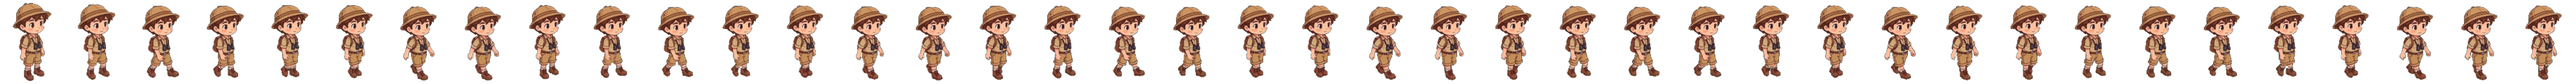
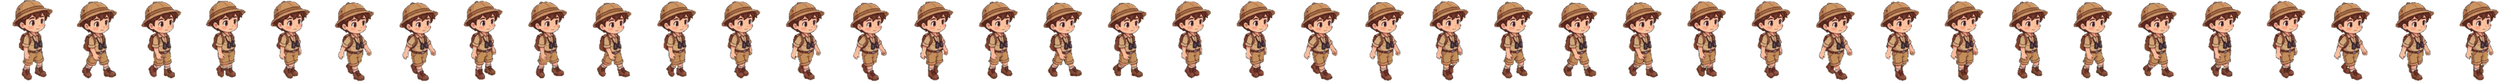
Savanne läuft flüssig, Flamingo-Aufgabe früher, Überraschungs-Flamingos, neue Welten-Bilder
- Savanne: Kamera rundet nicht mehr auf ganze Pixel (kein Stottern beim Seitwärtslaufen, wie in der Eiswelt);
  Lauf-Animation ohne das größere erste Bild und so groß wie im Stehen
- Starter-Aufgaben: Event mit neuen Tieren gleich nach dem Kescher, die Karte zeigt die fehlenden Herzen
- Überraschung: nach einer Minute in Wiese, Wald oder Savanne einmal gratis ein Flamingo-Flug (höchstens alle
  30 Minuten, erst nach dem Tutorial); die Statistik zählt mit
- Welten-Tafel: neue Screenshots von Savanne, Bambuswald und Dschungel mit Tieren

diff --git a/src/scenes/GardenScene.js b/src/scenes/GardenScene.js
@@ -421,6 +421,10 @@ const TUT_SHEEP = 2; // im Mini-Tutorial grasen auf der Wiese immer so viele Sch
 const TUT_SHEEP_R = 360; // ... so nah am Auto ...
 const TUT_SHEEP_CHECK = 2; // ... nachgeschaut wird alle paar Sekunden
 const PROMO_DELAY = 1200; // so lange nach der Ankunft im Tierpark, bis eine Tafel aufgeht (maybeShowPromo)
+// Überraschung (maybeSurprise): so lange nach der Ankunft in Wiese, Wald oder Savanne fliegen gratis Flamingos ein,
+// höchstens so oft
+const SURPRISE_DELAY = 60 * 1000;
+const SURPRISE_EVERY = 30 * 60 * 1000;
 // Tafel "andere Welten" (maybeShowPromo): Bild unter public/assets, Überschrift, Text
 const WORLD_PAGES = [
   ['promo/world_savanna', tr('Savanne', 'Savanna'), tr(
@@ -1093,6 +1097,7 @@ export default class GardenScene extends Phaser.Scene {
     hideLoading(); // fertig aufgebaut (siehe showLoading beim Starten, Gebietswechsel und Ausbau)
     sessionLoaded(); // für die Statistik: Ladezeit (nur beim ersten Gebiet der Runde)
     if (data.intro) this.time.delayedCall(400, () => this.showIntro()); // neues Spiel: Willkommens-Tafel
+    if (FLAMINGO_WORLDS.includes(LEVEL_ID)) this.time.delayedCall(SURPRISE_DELAY, () => this.maybeSurprise());
     if (data.fromWorld) {
       game.parkReturns++;
       this.time.delayedCall(PROMO_DELAY, () => this.maybeShowPromo());
@@ -1187,10 +1192,10 @@ export default class GardenScene extends Phaser.Scene {
       (MAP_W + MAP_H) * (TILE_H / 2) + TILE_H * 4,
     );
     cam.startFollow(this.player.sprite, true, 0.12, 0.12);
-    // Unterwasserwelt und Eiswelt: nicht auf ganze Pixel runden. Schwimmend ist Henrik langsamer (unter 1 Pixel pro Bild
-    // je Achse); Figur und Kamera rasten sonst zu verschiedenen Zeiten auf den nächsten Pixel ein, das sieht wie Stottern
-    // aus (in der Eiswelt vor dem gleichmäßigen Schnee besonders beim Laufen nach links und rechts zu sehen)
-    cam.roundPixels = !LEVEL.sea && !LEVEL.snow;
+    // Unterwasserwelt, Eiswelt und Savanne: nicht auf ganze Pixel runden. Schwimmend ist Henrik langsamer (unter 1 Pixel
+    // pro Bild je Achse); Figur und Kamera rasten sonst zu verschiedenen Zeiten auf den nächsten Pixel ein, das sieht wie
+    // Stottern aus (vor dem gleichmäßigen Schnee bzw. Sand besonders beim Laufen nach links und rechts zu sehen)
+    cam.roundPixels = !LEVEL.sea && !LEVEL.snow && LEVEL_ID !== 'savanna';
   }
 
   // Bogenbrücken: Bohlen als geschwungenes Band über dem Wasser, rote Geländer an beiden Seiten.
@@ -2091,6 +2096,7 @@ export default class GardenScene extends Phaser.Scene {
   updateHud() {
     const total = Object.values(this.homeCounts()).reduce((s, n) => s + n, 0);
     this.hud.innerHTML = `${LEVEL.name} · 🐾 <b>${total}</b> · <span class="hearts">♥ <b>${game.hearts}</b></span>${save.testMode ? '<span class="test">TEST</span>' : ''}`;
+    if (nextQuest()?.id === 'eventAnimal') this.updateQuestCard(); // dort steht, wie viele Herzen noch fehlen
     this.layoutHudStack();
   }
 
@@ -2139,10 +2145,18 @@ export default class GardenScene extends Phaser.Scene {
     this.questCard.classList.toggle('show', !!q);
     if (q) {
       const n = QUESTS.indexOf(q) + 1;
-      const progress = q.id === 'sheep' ? ` (${Math.min(SHEEP_QUEST, this.sheepAtHome())} / ${SHEEP_QUEST})` : '';
+      const progress = q.id === 'sheep' ? ` (${Math.min(SHEEP_QUEST, this.sheepAtHome())} / ${SHEEP_QUEST})` : q.id === 'eventAnimal' ? this.eventAnimalProgress() : '';
       this.questCard.innerHTML = `<b>${tr('Aufgabe', 'Task')} ${n} / ${QUESTS.length}</b><span>${q.text}${progress}</span><span class="quest-reward"><span class="heart">♥</span> ${q.reward}</span>`;
     }
     this.layoutHudStack();
+  }
+
+  // Aufgabe "Event mit neuen Tieren": so viele Herzen hat man vom günstigsten solchen Event (leer, wenn es reicht oder schon eins läuft)
+  eventAnimalProgress() {
+    const ids = Object.values(EVENT_SPECIES).map(([id]) => id);
+    if (ids.some((id) => isActive(id))) return '';
+    const cost = Math.min(...EVENTS.filter((e) => ids.includes(e.id)).map((e) => e.cost));
+    return game.hearts < cost ? ` (<span class="heart">♥</span> ${game.hearts} / ${cost})` : '';
   }
 
   // Schafe im Schafgehege (für die erste Aufgabe), auch von unterwegs aus dem gespeicherten Stand des Tierparks
@@ -4485,6 +4499,18 @@ export default class GardenScene extends Phaser.Scene {
       },
       () => this.scene.resume(),
     );
+  }
+
+  // Überraschung: ab und zu fliegen in Wiese, Wald und Savanne gratis Flamingos ein (das Event Flamingo-Flug), damit
+  // man Events nebenbei entdeckt. Erst nach dem Tutorial, nur wenn der Flamingo-Flug gerade startbar ist
+  maybeSurprise() {
+    if (this.leaving || game.tutorial !== false || !allAssetsLoaded() || eventState('flamingo').state !== 'ready') return;
+    if (Date.now() - (game.surpriseAt ?? 0) < SURPRISE_EVERY) return;
+    game.surpriseAt = Date.now();
+    startEvent('flamingo', Date.now(), true);
+    countPromo('surprise');
+    this.updateEventBanner();
+    this.showToast(tr('🦩 Überraschung! Ein Flamingo-Schwarm zieht 5 Minuten lang vorbei – fang einen für deinen Tierpark! Weitere Events startest du am Computer im Haupthaus.', '🦩 Surprise! A flock of flamingos is passing by for 5 minutes – catch one for your zoo! You can start more events at the computer in the main building.'));
   }
 
   showWorlds() {

diff --git a/src/world/quests.js b/src/world/quests.js
@@ -1,5 +1,6 @@
 // Starter-Aufgaben: die ersten beiden gehen mit dem Mini-Tutorial (Schafe, erstes Event), danach führen sie durch die
-// Fangarten und zu den Event-Tieren.
+// Fangarten und zu den Event-Tieren. Das Event mit neuen Tieren kommt früh (nach dem Kescher), damit nach dem Eisstand
+// gleich ein lohnendes Ziel da ist; bis die Herzen dafür reichen, zeigt die Aufgaben-Karte den Stand.
 // Jede bringt einmal Herzen. Angezeigt werden sie unter dem Zähler oben links (die nächste offene) und im Tierbuch (alle).
 import { game } from '../state.js';
 import { tr } from '../i18n.js';
@@ -9,10 +10,10 @@ export const QUESTS = [
   { id: 'sheep', text: tr('Bring 3 Schafe in deinen Tierpark', 'Bring 3 sheep to your zoo'), reward: 10 },
   { id: 'icecream', text: tr('Starte am Computer im Haupthaus den Eisstand', 'Start the ice cream stand at the computer in the main building'), reward: 10 },
   { id: 'net', text: tr('Fang ein Tier mit dem Kescher', 'Catch an animal with the net'), reward: 10 },
+  { id: 'eventAnimal', text: tr('Starte am Computer ein Event mit neuen Tieren und fang eins (z. B. einen Flamingo)', 'Start an event with new animals at the computer and catch one (e.g. a flamingo)'), reward: 30 },
   { id: 'lasso', text: tr('Fang ein Tier mit dem Lasso', 'Catch an animal with the lasso'), reward: 15 },
   { id: 'trap', text: tr('Stell im Wald eine Falle auf und fang ein Tier damit', 'Set a trap in the forest and catch an animal with it'), reward: 15 },
   { id: 'food', text: tr('Locke eine Giraffe oder einen Panda mit Grünfutter', 'Lure a giraffe or a panda with leafy greens'), reward: 15 },
-  { id: 'eventAnimal', text: tr('Starte am Computer ein Event mit neuen Tieren und fang eins (z. B. einen Flamingo)', 'Start an event with new animals at the computer and catch one (e.g. a flamingo)'), reward: 30 },
   { id: 'rare', text: tr('Manche Tiere gibt es in seltener Variante ✨ – fang eine!', 'Some animals come in a rare variant ✨ – catch one!'), reward: 30 },
 ];
 export const QUEST_IDS = QUESTS.map((q) => q.id);

diff --git a/tools/prepare-characters.js b/tools/prepare-characters.js
@@ -551,8 +551,8 @@ const ANIMATIONS = [
   { src: 'Animation/Character_Wald_idle_vorne.png', out: 'hero_forest_idle.png', cols: 5, rows: 3, count: 13, dropGreen: true, frameW: 88, frameH: 116, feetY: 112, figureH: 108 },
   { src: 'Animation/Character_Wald_idle_hinten.png', out: 'hero_forest_idle_back.png', cols: 5, rows: 8, count: 36, dropGreen: true, frameW: 88, frameH: 116, feetY: 112, figureH: 108 },
   // Safari-Kleidung (Savanne): läuft und steht, von vorne und hinten, wie die Wald-Kleidung
-  { src: 'Animation/Character_Savanne_läuft_vorne.png', out: 'hero_savanna_walk.png', cols: 5, rows: 8, dropGreen: true, frameW: 88, frameH: 116, feetY: 112, figureH: 108 },
-  { src: 'Animation/Character_Savanne_läuft_hinten.png', out: 'hero_savanna_walk_back.png', cols: 5, rows: 4, count: 18, dropGreen: true, frameW: 88, frameH: 116, feetY: 112, figureH: 108 },
+  { src: 'Animation/Character_Savanne_läuft_vorne.png', out: 'hero_savanna_walk.png', cols: 5, rows: 8, skip: [0], dropGreen: true, frameW: 88, frameH: 116, feetY: 112, figureH: 112 }, // ohne das erste Bild (steht noch, größer als die übrigen); figureH: im Laufen so groß wie im Stehen
+  { src: 'Animation/Character_Savanne_läuft_hinten.png', out: 'hero_savanna_walk_back.png', cols: 5, rows: 4, count: 18, dropGreen: true, frameW: 88, frameH: 116, feetY: 112, figureH: 112 }, // figureH: im Laufen so groß wie im Stehen
   { src: 'Animation/Character_Savanne_idle_vorne.png', out: 'hero_savanna_idle.png', cols: 5, rows: 4, count: 16, dropGreen: true, steady: true, frameW: 88, frameH: 116, feetY: 112, figureH: 108 },
   { src: 'Animation/Character_Savanne_idle_hinten.png', out: 'hero_savanna_idle_back.png', cols: 5, rows: 8, dropGreen: true, steady: true, frameW: 88, frameH: 116, feetY: 112, figureH: 108 },
   // Hauptfigur steht (Blick nach unten-rechts, atmet und blinzelt)

diff --git a/src/state.js b/src/state.js
@@ -22,6 +22,7 @@ export const game = {
   quests: { done: [] }, // Starter-Aufgaben (siehe src/world/quests.js)
   parkReturns: 0, // so oft ist man aus einer Welt zurück in den Tierpark gekommen (für die Tafeln in promos)
   promos: [], // schon gezeigte Tafeln im Tierpark: 'gift' (geschenktes Event), 'worlds' (die anderen Welten)
+  surpriseAt: 0, // wann zuletzt ein Überraschungs-Flamingo-Flug kam (siehe maybeSurprise in GardenScene)
   bookNew: [], // Neues im Tierbuch (roter Punkt am Knopf, leuchtet beim Öffnen auf): 'caught:fox', 'seen:fox', 'quest:net'
   upgrades: 0, // so oft wurde schon ausgebaut (jeder Ausbau kostet 10 Herzen mehr) // freigeschaltete Teile des Tierparks (z. B. 'flamingo': Flamingo-Gehege nach dem ersten Flamingo) // gestartete Events (siehe src/world/events.js): { babies: { startsAt, endsAt, readyAt } }
 };
@@ -50,4 +51,5 @@ export function resetGame() {
   game.bookNew = [];
   game.parkReturns = 0;
   game.promos = [];
+  game.surpriseAt = 0;
 }

diff --git a/src/sessions.js b/src/sessions.js
@@ -69,7 +69,8 @@ export function countEvent(id) {
   if (session) count(session.events, id);
 }
 
-// Tafeln im Tierpark: 'gift' gezeigt, 'giftbabies'/'giftride' gewählt; 'worlds' gezeigt, 'worldsmap' bis zum Ende durchgeblättert
+// Tafeln im Tierpark: 'gift' gezeigt, 'giftbabies'/'giftride' gewählt; 'worlds' gezeigt, 'worldsmap' bis zum Ende durchgeblättert;
+// 'surprise': Überraschungs-Flamingos in einer Welt
 export function countPromo(id) {
   if (session) count(session.promos, id);
 }
